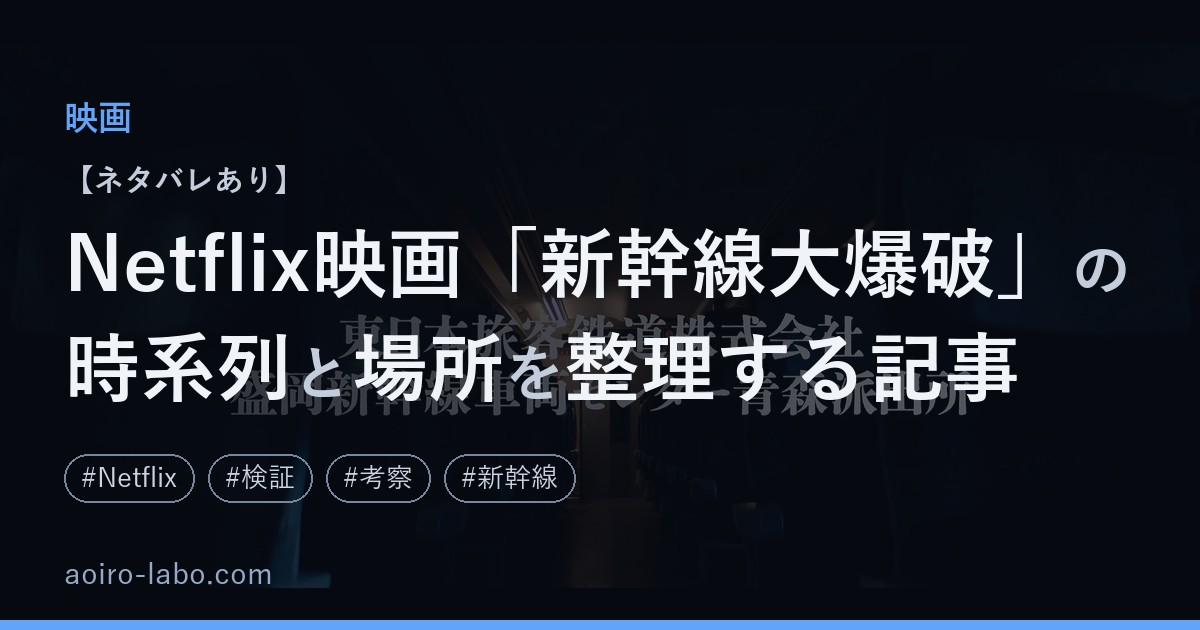
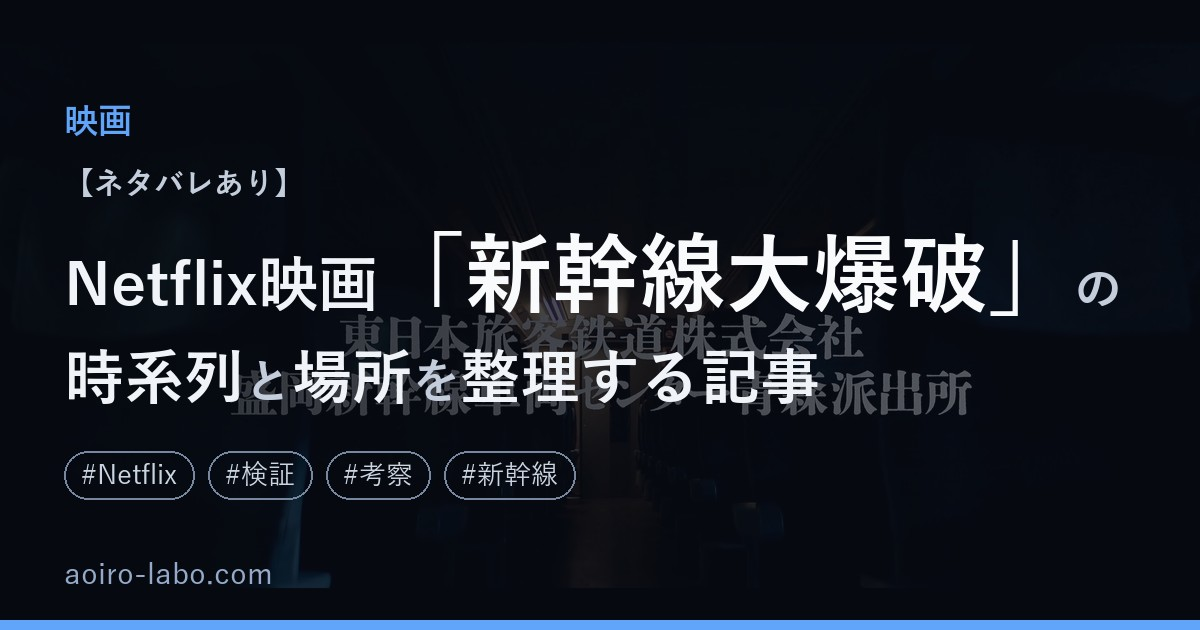
カバー生成を改善（auto背景の適性判定・カギカッコ内heroの修正・カテゴリ重複の解消）

diff --git a/tools/generate_cover.py b/tools/generate_cover.py
@@ -127,9 +127,10 @@ def classify(atoms, emph, hero):
             emit(a,'base'); continue
         if a and all(ch in PARTICLES for ch in a):
             emit(a,'sub',glue=True); continue
-        if a==hero:
+        core = a[1:-1] if len(a)>=2 and ((a[0]=='\u300c' and a[-1]=='\u300d') or (a[0]=='\u300e' and a[-1]=='\u300f')) else a
+        if a==hero or (core!=a and core==hero):
             emit(a,'hero'); continue
-        if a in emph:
+        if a in emph or (core!=a and core in emph):
             emit(a,'accent'); continue
         if a.startswith('('):
             k=a.find(')')
@@ -278,6 +279,14 @@ def load_image(src):
         print('  img load failed:', src[:80], e)
         return None
 
+def bg_suitable(im):
+    # bright or busy images fight the title text; only dark, calm ones may go full-bg
+    from PIL import ImageStat
+    g = im.convert("L")
+    small = g.resize((320, max(1, int(320*g.size[1]/g.size[0]))))
+    edges = small.filter(ImageFilter.FIND_EDGES)
+    return ImageStat.Stat(g).mean[0] < 80 and ImageStat.Stat(edges).mean[0] < 20
+
 def ns_pick(path):
     return pick_image(path, 'auto')
 
@@ -346,6 +355,8 @@ def make(path, out, hero_override=None, emphasis_override=None):
     disp = disp.replace('・', '･')
     bracket_h = 30+22 if bracket else 0
     acc = accent_for(cat)
+    if cat and hero and cat == hero:
+        cat = ''
     img = background(acc)
     d = ImageDraw.Draw(img)
     cat_h = 34+30 if cat else 0
@@ -362,7 +373,7 @@ def make(path, out, hero_override=None, emphasis_override=None):
         pic = load_image(cimg)
     else:
         pic = None
-    use_bg = pic is not None and (cimg=='bg' or (cimg=='auto' and pic.size[0]>=1600 and pic.size[1]>=900))
+    use_bg = pic is not None and (cimg=='bg' or (cimg=='auto' and pic.size[0]>=1600 and pic.size[1]>=900 and bg_suitable(pic)))
     panel = None if use_bg else (pic if cimg in ('auto',) or (cimg and cimg not in ('none','bg')) else None)
     if use_bg:
         if True:
@@ -443,7 +454,7 @@ def make(path, out, hero_override=None, emphasis_override=None):
             md.rounded_rectangle([0,0,nw,nh], radius=14, fill=255)
             img.paste(thumb,(px,py),mask)
             d.rounded_rectangle([px,py,px+nw,py+nh], radius=14, outline=(120,135,160), width=2)
-            d.text((MARGIN if sx is None else sx, H-72), 'aoiro-labo.com', font=ImageFont.truetype(REG, 30), fill=(148,170,200))
+            d.text((MARGIN, H-72), 'aoiro-labo.com', font=ImageFont.truetype(REG, 30), fill=(148,170,200))
             d.rectangle([0,H-10,W,H], fill=acc)
             img.save(out, quality=90)
             print('made (natural)', out, '| hero:', hero, '| lines:', [[t for (t,c,g) in ln] for ln in lines])
